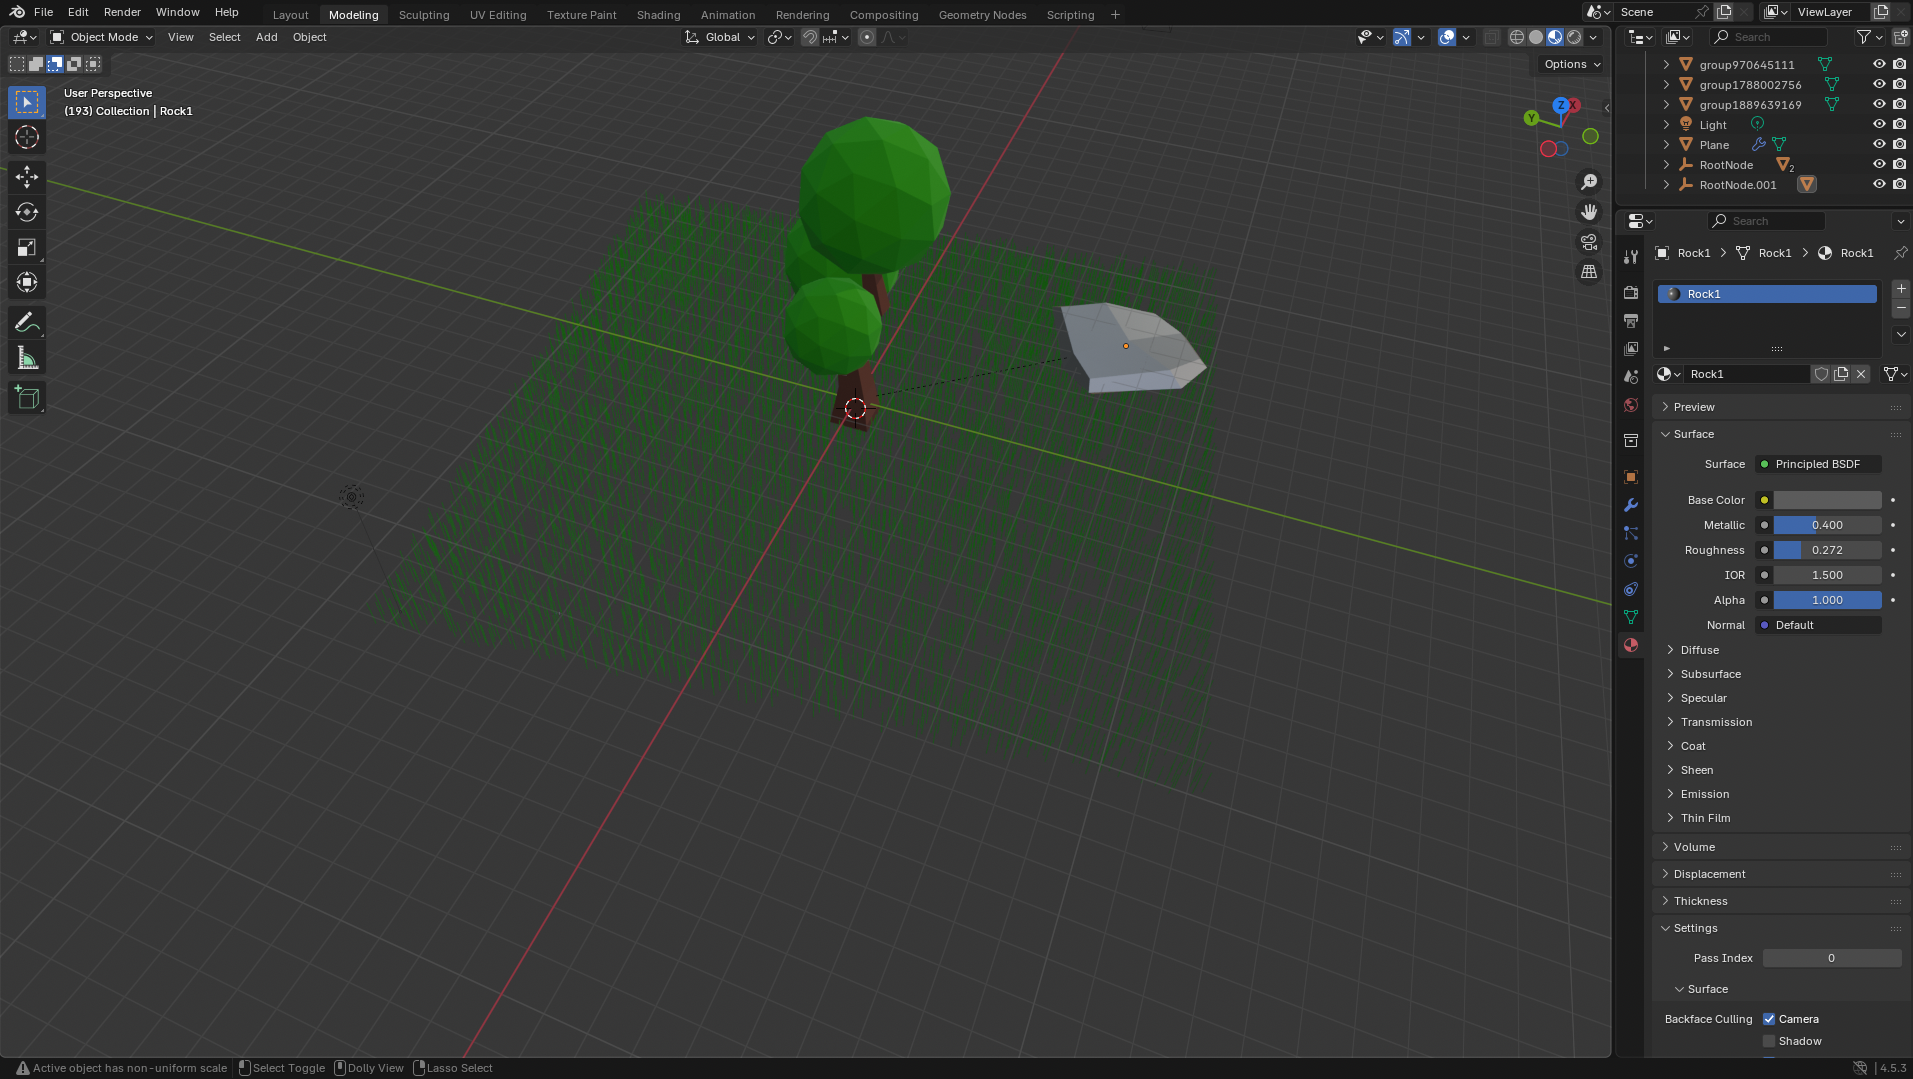
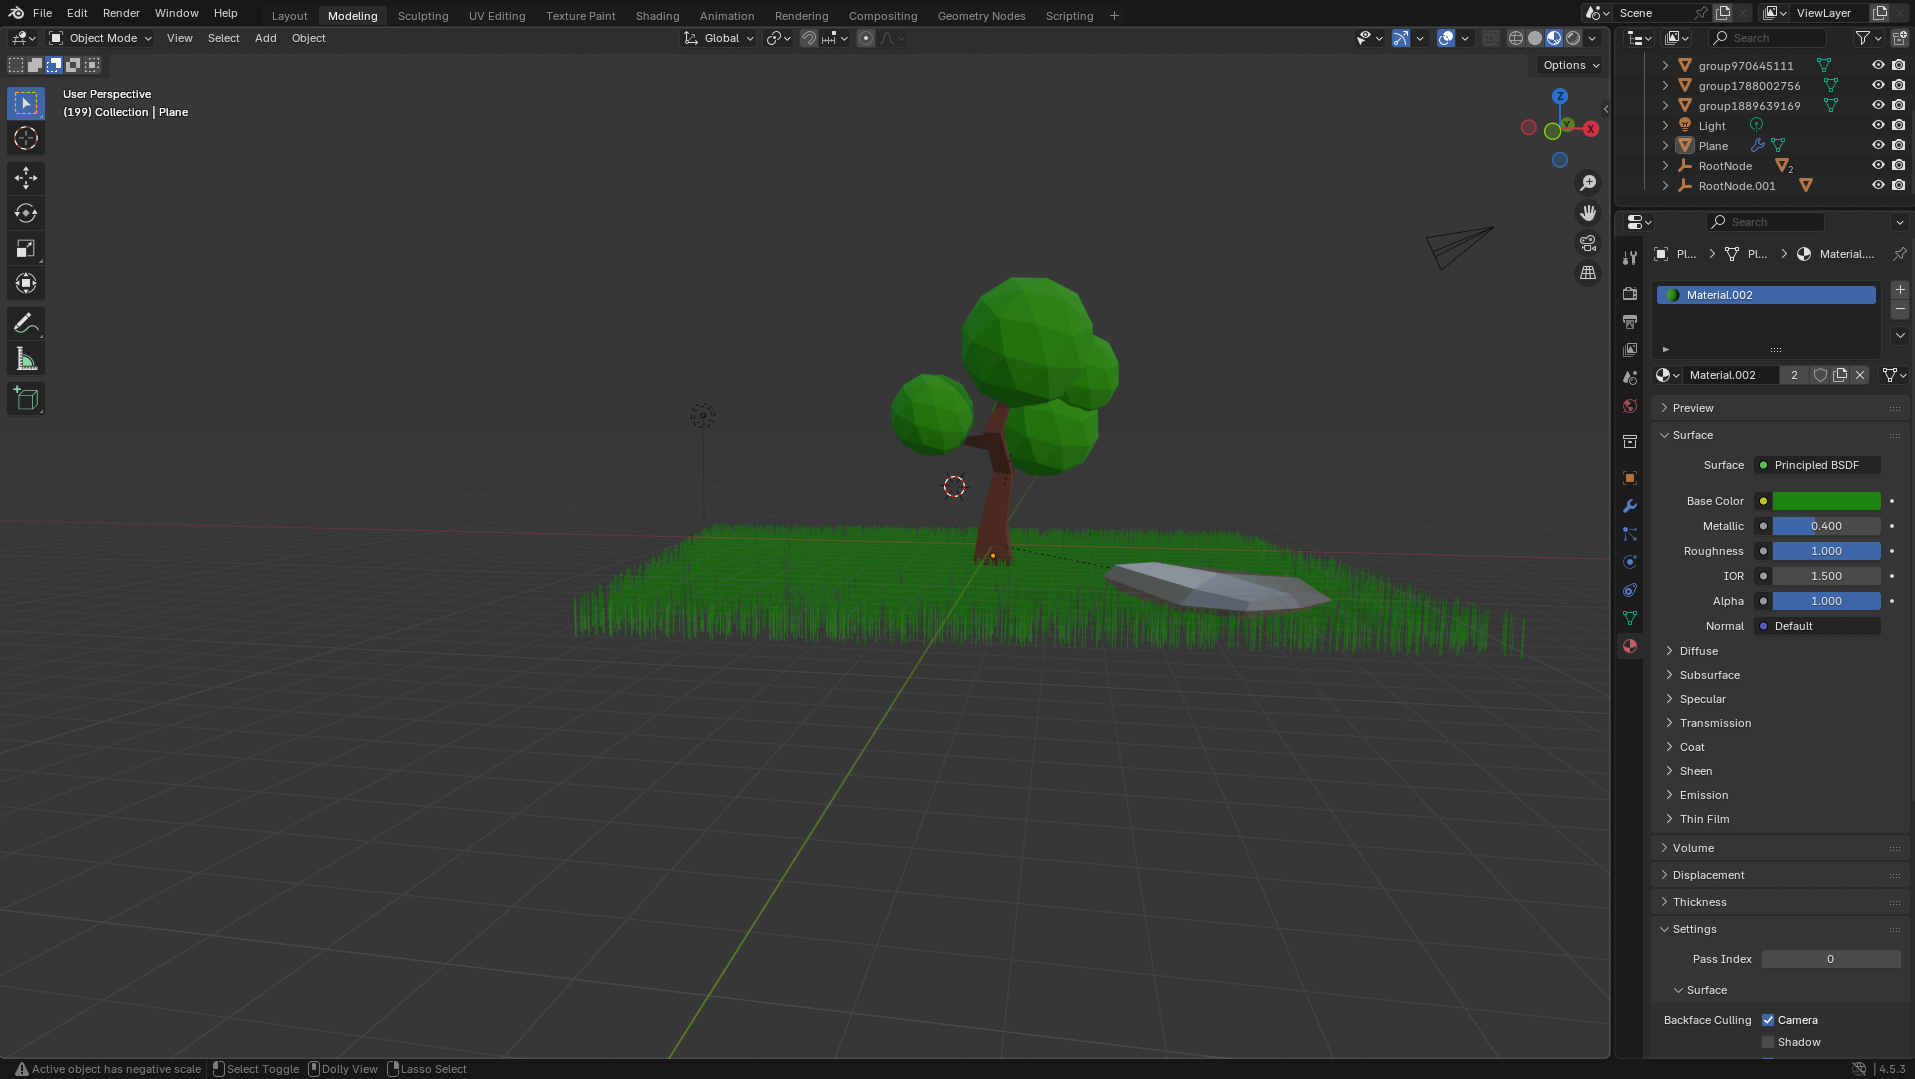
Updates

diff --git a/week5lowpoly/index.html b/week5lowpoly/index.html
@@ -8,8 +8,8 @@
 </head>
 <body>
   <header>
-    <h1>Blender Nature Project 🌿</h1>
-    <p>Low-Poly Tree, Rock & Grass Scene by Oloruntoba Oni</p>
+    <h1>Blender Nature Project Documentation</h1>
+    <p>Low-Poly Tree, Rock & Grass Scene by Toba Oni</p>
     <nav>
       <button onclick="scrollToSection('ideation')">Ideation</button>
       <button onclick="scrollToSection('process')">Process</button>
@@ -60,9 +60,18 @@
       <h2>Final Renders</h2>
       <p>Below are three rendered views of the final scene showcasing different camera angles:</p>
       <div class="renders">
-        <img src="images/render1.jpg" alt="Render 1 - front view">
-        <img src="images/render2.jpg" alt="Render 2 - side view">
-        <img src="images/render3.jpg" alt="Render 3 - top view">
+        <div class="render-container">
+          <img src="images/render1.jpg" alt="Render 1 - front view" onclick="openModal(this)">
+          <span class="caption">Front View</span>
+        </div>
+        <div class="render-container">
+          <img src="images/render2.jpg" alt="Render 2 - side view" onclick="openModal(this)">
+          <span class="caption">Side View</span>
+        </div>
+        <div class="render-container">
+          <img src="images/render3.jpg" alt="Render 3 - top view" onclick="openModal(this)">
+          <span class="caption">Top View</span>
+        </div>
       </div>
     </section>
 
@@ -71,8 +80,8 @@
       <p>
         This was my first hands-on experience creating <strong>low-poly 3D models</strong> in Blender.
         At first, it felt unfamiliar, but I quickly learned by watching short tutorials from the
-        course’s <em>3D Design - Tools and Resources</em> page. I practiced using modifiers,
-        basic sculpting, and the outliner to organize my objects properly.
+        course’s <em>3D Design - Tools and Resources</em> page and also re-watched the class zoom recordings. 
+        I practiced using modifiers, basic sculpting, and the outliner to organize my objects properly.
       </p>
       <p>
         The most valuable takeaway from this project was understanding how simplicity in form can
@@ -87,8 +96,14 @@
   </main>
 
   <footer>
-    <p>© 2025 Oloruntoba Oni | Blender Nature Project Documentation</p>
+    <p>© 2025 Toba Oni | Low-poly modelling in Blender Project</p>
   </footer>
+
+  <!-- Modal for image click -->
+  <div id="modal" class="modal" onclick="closeModal()">
+    <span class="close">&times;</span>
+    <img class="modal-content" id="modal-img">
+  </div>
 
   <script src="script/script.js"></script>
 </body>

diff --git a/week5lowpoly/style/Style.css b/week5lowpoly/style/Style.css
@@ -11,6 +11,9 @@ header {
   color: white;
   text-align: center;
   padding: 20px 0;
+  position: sticky;
+  top: 0;
+  z-index: 100;
 }
 
 header p {
@@ -20,21 +23,24 @@ header p {
 
 nav {
   margin-top: 15px;
+  display: flex;
+  flex-wrap: wrap;
+  justify-content: center;
+  gap: 10px;
 }
 
 nav button {
   background: #f4e9d8;
   border: none;
-  margin: 5px;
   padding: 10px 18px;
   border-radius: 8px;
   cursor: pointer;
   font-weight: bold;
+  transition: background 0.3s ease;
 }
 
 nav button:hover {
   background: #d7c6a4;
-  transition: 0.3s;
 }
 
 section {
@@ -55,21 +61,108 @@ img {
   box-shadow: 0 4px 12px rgba(0,0,0,0.1);
 }
 
+/* ---- Renders ---- */
 .renders {
   display: flex;
-  flex-wrap: wrap;
-  gap: 10px;
-  justify-content: center;
+  flex-direction: column;
+  gap: 30px;
+  align-items: center;
 }
 
-.renders img {
-  width: 30%;
-  min-width: 200px;
+.render-container {
+  position: relative;
+  overflow: hidden;
+  border-radius: 10px;
+  width: 100%;
+  max-width: 900px;
 }
 
+.render-container img {
+  width: 100%;
+  transition: transform 0.3s ease, box-shadow 0.3s ease;
+}
+
+.render-container:hover img {
+  transform: scale(1.05);
+  box-shadow: 0 8px 20px rgba(0,0,0,0.2);
+  cursor: pointer;
+}
+
+.render-container .caption {
+  position: absolute;
+  bottom: 10px;
+  left: 0;
+  right: 0;
+  text-align: center;
+  color: white;
+  font-weight: bold;
+  font-size: 1.1rem;
+  opacity: 1;
+  text-shadow: 0 2px 6px rgba(0,0,0,0.7);
+}
+
+/* ---- Modal ---- */
+.modal {
+  display: none;
+  position: fixed;
+  z-index: 200;
+  padding-top: 60px;
+  left: 0;
+  top: 0;
+  width: 100%;
+  height: 100%;
+  overflow: auto;
+  background-color: rgba(0,0,0,0.8);
+}
+
+.modal-content {
+  margin: auto;
+  display: block;
+  width: 80%;
+  max-width: 1000px;
+  border-radius: 10px;
+  box-shadow: 0 8px 30px rgba(0,0,0,0.5);
+}
+
+.close {
+  position: absolute;
+  top: 30px;
+  right: 40px;
+  color: white;
+  font-size: 40px;
+  font-weight: bold;
+  cursor: pointer;
+}
+
+/* Footer */
 footer {
   text-align: center;
   padding: 20px;
   background: #3b6b4c;
   color: white;
+}
+
+/* Responsive */
+@media (max-width: 900px) {
+  .render-container {
+    width: 95%;
+  }
+}
+
+@media (max-width: 600px) {
+  nav {
+    flex-direction: column;
+    align-items: center;
+    gap: 8px;
+  }
+
+  nav button {
+    width: 80%;
+    padding: 12px;
+    font-size: 1rem;
+  }
+
+  section {
+    padding: 30px 15px;
+  }
 }

diff --git a/week5lowpoly/scripts/script.js b/week5lowpoly/scripts/script.js
@@ -1,3 +1,21 @@
+// Smooth scroll to section
 function scrollToSection(id) {
-  document.getElementById(id).scrollIntoView({ behavior: 'smooth' });
+  const section = document.getElementById(id);
+  if (section) {
+    section.scrollIntoView({ behavior: 'smooth' });
+  }
 }
+
+// Modal functionality
+function openModal(img) {
+  const modal = document.getElementById('modal');
+  const modalImg = document.getElementById('modal-img');
+  modal.style.display = 'block';
+  modalImg.src = img.src;
+}
+
+function closeModal() {
+  const modal = document.getElementById('modal');
+  modal.style.display = 'none';
+
+  
